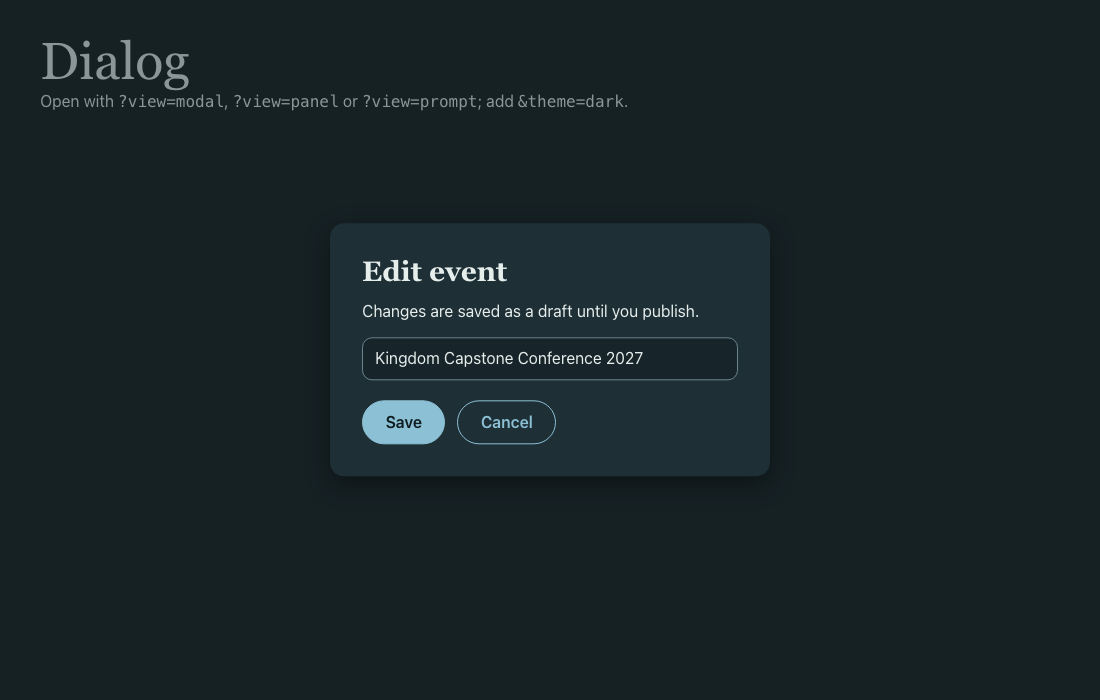
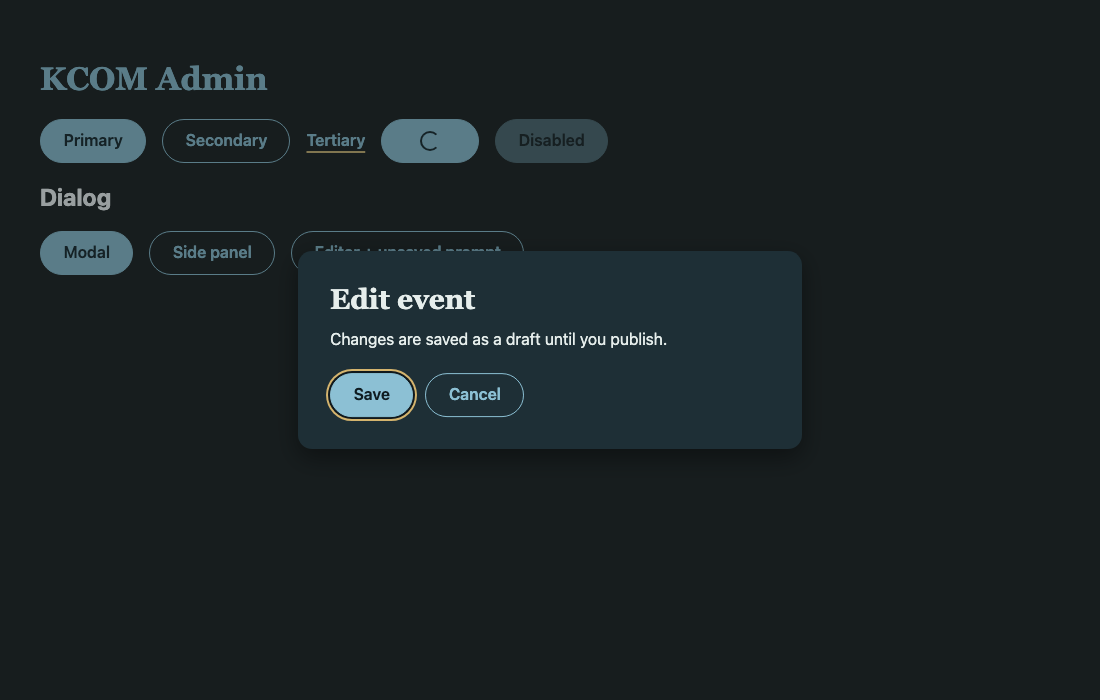
KCOM-75: Show dialogs on the admin landing page, drop standalone demo

diff --git a/apps/admin/src/demo/DialogDemo.tsx b/apps/admin/src/demo/DialogDemo.tsx
@@ -1,0 +1,85 @@
+import { useEffect, useState } from "react";
+import { Button, Dialog, DialogActions, DialogClose, UnsavedChangesPrompt } from "@kcom/ui";
+
+// ?dialog=modal|panel|editor opens that state on load; ?theme=light|dark forces a theme.
+// Both exist for review screenshots.
+const initialDialog = () =>
+  typeof window === "undefined" ? null : new URLSearchParams(window.location.search).get("dialog");
+
+export function DialogDemo() {
+  const initial = initialDialog();
+  useEffect(() => {
+    const theme = new URLSearchParams(window.location.search).get("theme");
+    if (!theme) return;
+    document.documentElement.dataset.theme = theme;
+    // Screenshots are taken immediately, so skip the open animations.
+    const style = document.createElement("style");
+    style.textContent = "*, *::before, *::after { animation: none !important; }";
+    document.head.append(style);
+    return () => style.remove();
+  }, []);
+  const [editorOpen, setEditorOpen] = useState(initial === "editor");
+  const [promptOpen, setPromptOpen] = useState(initial === "editor");
+  const close = () => {
+    setPromptOpen(false);
+    setEditorOpen(false);
+  };
+  return (
+    <section>
+      <h2>Dialog</h2>
+      <div style={{ display: "flex", gap: "1rem", flexWrap: "wrap" }}>
+        <Dialog
+          defaultOpen={initial === "modal"}
+          title="Edit event"
+          description="Changes are saved as a draft until you publish."
+          trigger={<Button>Modal</Button>}
+        >
+          <DialogActions>
+            <DialogClose asChild>
+              <Button>Save</Button>
+            </DialogClose>
+            <DialogClose asChild>
+              <Button variant="secondary">Cancel</Button>
+            </DialogClose>
+          </DialogActions>
+        </Dialog>
+
+        <Dialog
+          panel
+          defaultOpen={initial === "panel"}
+          title="Event details"
+          description="Side panel for longer editing flows."
+          trigger={<Button variant="secondary">Side panel</Button>}
+        >
+          <DialogActions>
+            <DialogClose asChild>
+              <Button variant="secondary">Close</Button>
+            </DialogClose>
+          </DialogActions>
+        </Dialog>
+
+        <Dialog
+          editor
+          open={editorOpen}
+          onOpenChange={setEditorOpen}
+          title="Edit event"
+          description="Esc and clicks outside never close the editor."
+          trigger={<Button variant="secondary">Editor + unsaved prompt</Button>}
+        >
+          <DialogActions>
+            <Button variant="secondary" onClick={() => setPromptOpen(true)}>
+              Close
+            </Button>
+          </DialogActions>
+        </Dialog>
+        <UnsavedChangesPrompt
+          open={promptOpen}
+          onOpenChange={setPromptOpen}
+          subject="Kingdom Capstone Conference 2027"
+          onSaveDraft={close}
+          onDiscard={close}
+        />
+      </div>
+    </section>
+  );
+}

diff --git a/apps/admin/src/App.tsx b/apps/admin/src/App.tsx
@@ -1,4 +1,5 @@
 import { Button } from "@kcom/ui";
+import { DialogDemo } from "./demo/DialogDemo";
 
 export function App() {
   return (
@@ -13,6 +14,7 @@ export function App() {
         <Button loading>Saving</Button>
         <Button disabled>Disabled</Button>
       </div>
+      <DialogDemo />
     </main>
   );
 }

diff --git a/apps/admin/src/main.tsx b/apps/admin/src/main.tsx
@@ -2,6 +2,7 @@ import { StrictMode } from "react";
 import { createRoot } from "react-dom/client";
 import "@kcom/ui/tokens.css";
 import "@kcom/ui/button.css";
+import "@kcom/ui/dialog.css";
 import { App } from "./App";
 import { initSentry } from "./sentry";
 

diff --git a/packages/ui/src/components/dialog.css b/packages/ui/src/components/dialog.css
@@ -27,6 +27,7 @@
     padding: var(--space-6);
     border-radius: var(--radius);
     background: var(--color-raised);
+    font-family: var(--font-body);
     color: var(--color-text);
     box-shadow: var(--shadow-card);
 
